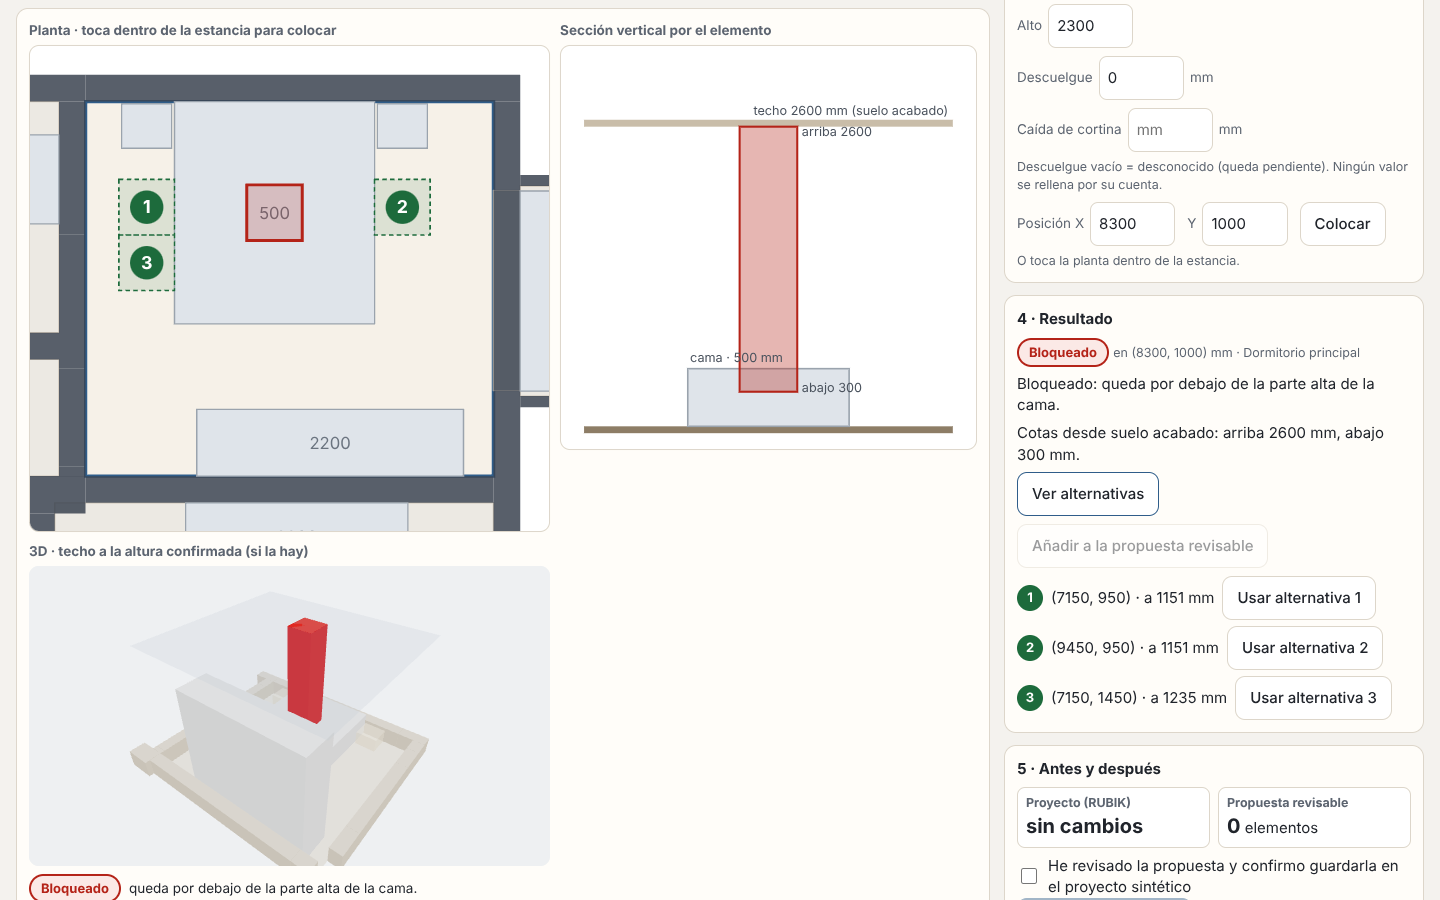
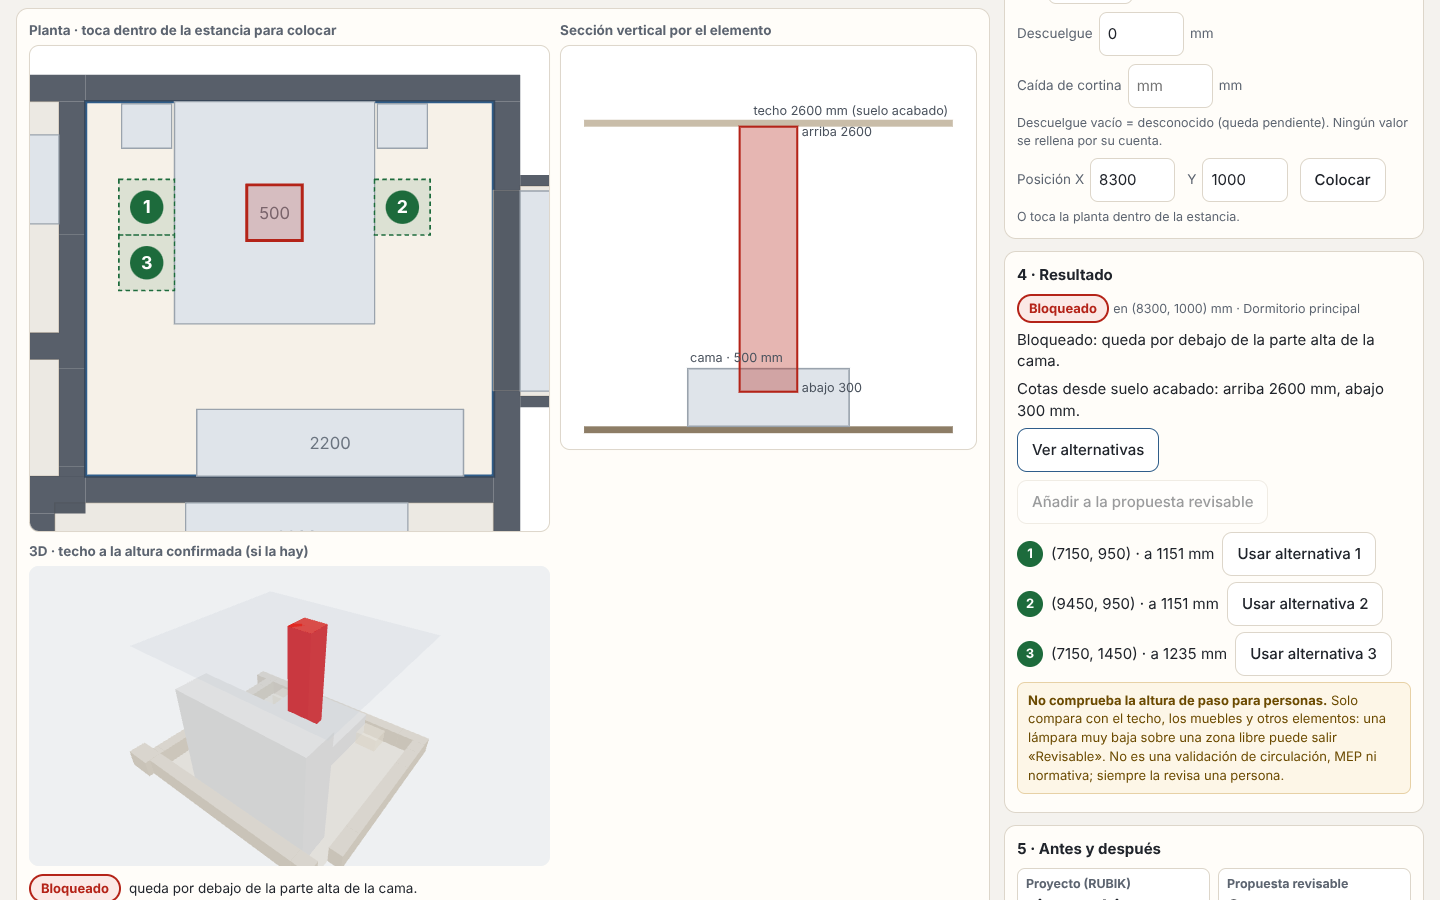
fix(r02a): state the headroom limit next to every result; hide the height form when the reference is unknown
- The audit asked to keep a prominent notice that the #193 core does not
  check walkway headroom for people. It was only in the decision record;
  the lab now shows it under every result («No comprueba la altura de paso
  para personas…»), asserted by the browser test.
- Pre-existing defect found in the phone captures: with «Desconocida»
  pressed the «Altura libre» form was still on screen, because
  .row{display:flex} overrode the hidden attribute. #refForm[hidden] now
  hides it; the «B3 missing reference» test fails before and passes after.

Browser 13/13; session + core 34/34.

Claude-Session: https://claude.ai/code/session_018qrnxCxtywTym2g1MpgUDA

Changed region(s): [[0.6875, 0.0, 0.9688, 1.0]]

diff --git a/labs/sculpt/r02a-normalized/index.html b/labs/sculpt/r02a-normalized/index.html
@@ -36,6 +36,9 @@ input[type=number]{width:9ch}input.src{width:24ch}
 #plan{width:100%;height:auto;max-height:66vh;display:block;background:#fff;border:1px solid var(--line);border-radius:10px;touch-action:manipulation;cursor:crosshair}
 #section{width:100%;height:auto;display:block;background:#fff;border:1px solid var(--line);border-radius:10px}
 #view3d{width:100%;height:300px;display:block;border-radius:10px;background:#eef0f2;touch-action:none}
+/* `.row{display:flex}` must not override the hidden attribute (the reference form showed with «Desconocida»). */
+#refForm[hidden]{display:none}
+.limit{margin:10px 0 0;padding:8px 10px;border-radius:8px;background:#fdf6e7;border:1px solid #e7d1a6;color:#6b4a00;font-size:13px}
 .saved-h{font-size:13px;margin:14px 0 6px;color:var(--muted,#5a6168)}.saved-list{list-style:none;margin:0;padding:0;display:flex;flex-direction:column;gap:6px}.saved-list li{display:flex;flex-wrap:wrap;align-items:center;gap:6px;font-size:13.5px}.saved-list .why{flex-basis:100%;color:#8a2a1f}.file-row{margin-top:10px}.file-btn{position:relative;display:inline-flex;align-items:center}.file-btn input{position:absolute;left:-9999px}
 @media(max-width:1099px){.layout{display:block}.layout>*{margin-bottom:14px}.views-tabs{display:flex}.views{display:block}.v[hidden]{display:none!important}
  .stage{position:sticky;top:0;z-index:5;background:var(--bg);padding:6px 0 8px;box-shadow:0 8px 12px -10px rgba(0,0,0,.25)}.stage .card{padding:8px}.v h3{display:none}
@@ -100,6 +103,7 @@ pre{max-height:220px;overflow:auto;font-size:11.5px;background:#f8f6f2;border:1p
    <div id="explain"></div>
    <div class="row"><button class="btn" id="altBtn" type="button" disabled>Ver alternativas</button><button class="btn" id="addBtn" type="button" disabled>Añadir a la propuesta revisable</button></div>
    <ol class="alts" id="alts"></ol>
+   <p class="limit" id="limitNote" role="note"><b>No comprueba la altura de paso para personas.</b> Solo compara con el techo, los muebles y otros elementos: una lámpara muy baja sobre una zona libre puede salir «Revisable». No es una validación de circulación, MEP ni normativa; siempre la revisa una persona.</p>
   </div>
   <div class="card"><h2>5 · Antes y después</h2>
    <div class="cmp"><div><b>Proyecto (RUBIK)</b><span class="big" id="cmpProject">sin cambios</span></div><div><b>Propuesta revisable</b><span class="big" id="cmpReview">0</span> elementos</div></div>

diff --git a/docs/technical/sculpt-r02a-normalized-2026-11-12.md b/docs/technical/sculpt-r02a-normalized-2026-11-12.md
@@ -77,6 +77,8 @@ Una persona puede:
 | (Auditoría de ChatGPT, 12/11) «No prueban confirmación de la alternativa y reapertura de la persistencia». Era cierto: el laboratorio no tenía archivo, solo el JSON en pantalla | «Descargar proyecto JSON» y «Reabrir JSON». Al reabrir, `RubikCeilingContract.recheck` **vuelve a evaluar** cada elemento guardado con la referencia y los demás elementos tal como están en el archivo. Es de solo lectura: lo que ya no cumple se marca en rojo en la lista, la planta y el 3D, con su motivo, y no se mueve ni se borra | Prueba de navegador con el archivo real (alternativa → confirmar → descargar → página nueva → `input[type=file]`) y con el mismo archivo con la referencia rebajada a 1800 mm. Capturas `r02a-roundtrip-*` |
 | Al reabrir, el control de referencia decía «Desconocida» aunque hubiera una guardada; la sección decía «techo desconocido» sin elemento seleccionado | El control y la sección muestran la referencia guardada de la estancia (nunca una supuesta) | Misma prueba |
 | «Guardados 1 elementos», «1 confirmados» | Singular y plural | Misma prueba |
+| (Auditoría, 12/11) El límite de la altura de paso solo estaba en este documento | Aviso destacado y fijo bajo cada resultado: «No comprueba la altura de paso para personas…» | Prueba de navegador (aviso visible junto al resultado) y captura `r02a-alternatives-1440` |
+| Con «Desconocida» pulsado se veía el formulario de altura libre: `.row{display:flex}` anulaba el atributo `hidden` (ya estaba en la versión revisada) | `#refForm[hidden]{display:none}` | La prueba «B3 missing reference» falla antes del cambio y pasa después; captura `r02a-home-390x844` |
 
 ## B3 · Pruebas y resultados reales (local, Chromium de Playwright)
 
